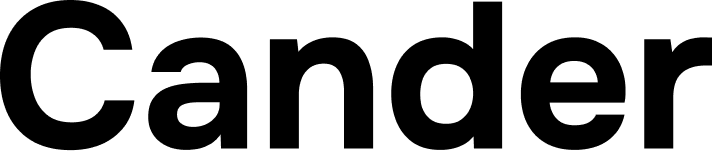
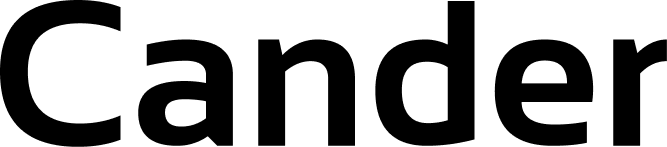
Update mobile wordmark and sticky menu header.
Replace the Cander wordmark with theme-aware ink, drop the orb beside it, and let the drawer scroll under a fixed brand header.

diff --git a/components/shell/MobileMenuPane.tsx b/components/shell/MobileMenuPane.tsx
@@ -10,7 +10,6 @@ import {
   SquarePen,
 } from "lucide-react";
 import { useApp } from "@/components/app/AppProvider";
-import { CanderMark } from "@/components/brand/CanderMark";
 import { CanderWordmark } from "@/components/brand/CanderWordmark";
 import {
   MobileSlideStack,
@@ -179,63 +178,67 @@ function MenuMain({
   };
 
   return (
-    <>
-      <div className="flex shrink-0 items-center justify-between gap-3 px-3 pl-7 pr-3 pt-[calc(env(safe-area-inset-top,0px)+22px)]">
-        <div className="flex min-w-0 items-center gap-2">
-          <CanderMark className="!h-6 !w-6" />
-          <CanderWordmark />
-        </div>
-      </div>
-
-      <div className="mt-[30px] flex min-h-0 flex-1 flex-col px-3 pb-[max(0.75rem,env(safe-area-inset-bottom))]">
-        <div className="flex flex-col gap-[0.1rem]">
-          <button
-            type="button"
-            onClick={onNewChat}
-            className={cn(
-              mobileMenuRowClass,
-              newActive && mobileMenuRowActiveClass,
-            )}
-            aria-label="New"
-          >
-            <SquarePen
-              className={cn(MOBILE_MENU_ICON_SIZE, "text-muted-foreground")}
-              strokeWidth={MOBILE_MENU_ICON_STROKE}
-            />
-            <span className="min-w-0 flex-1 truncate">New</span>
-          </button>
-          {spaceItems.map((item) => (
-            <MobileNavRow
-              key={item.id}
-              id={item.id}
-              label={item.label}
-              Icon={item.Icon}
-              active={navActive(item.id)}
-              comingSoon={item.comingSoon}
-              onOpen={onOpenNav}
-            />
-          ))}
-          <PinsSheet onSelect={onSelectPin} hideHeading />
+    <div className="flex h-full min-h-0 flex-col">
+      <div className="min-h-0 flex-1 overflow-y-auto overscroll-contain">
+        <div
+          className={cn(
+            "sticky top-0 z-20 flex items-center px-3 pl-7 pr-3 pt-[calc(env(safe-area-inset-top,0px)+22px)] pb-4",
+            MOBILE_MENU_BG,
+          )}
+        >
+          <CanderWordmark className="h-5" />
         </div>
 
-        <div className="mt-auto pt-3">
-          <button
-            type="button"
-            onClick={() => onOpenScreen("general")}
-            className={mobileMenuRowClass}
-          >
-            <PanelsTopLeft
+        <div className="flex min-h-[calc(100%-4.5rem)] flex-col px-3 pb-[max(0.75rem,env(safe-area-inset-bottom))] pt-2">
+          <div className="flex flex-col gap-[0.1rem]">
+            <button
+              type="button"
+              onClick={onNewChat}
               className={cn(
-                MOBILE_MENU_ICON_SIZE,
-                "shrink-0 text-muted-foreground",
+                mobileMenuRowClass,
+                newActive && mobileMenuRowActiveClass,
               )}
-              strokeWidth={MOBILE_MENU_ICON_STROKE}
-            />
-            General
-          </button>
+              aria-label="New"
+            >
+              <SquarePen
+                className={cn(MOBILE_MENU_ICON_SIZE, "text-muted-foreground")}
+                strokeWidth={MOBILE_MENU_ICON_STROKE}
+              />
+              <span className="min-w-0 flex-1 truncate">New</span>
+            </button>
+            {spaceItems.map((item) => (
+              <MobileNavRow
+                key={item.id}
+                id={item.id}
+                label={item.label}
+                Icon={item.Icon}
+                active={navActive(item.id)}
+                comingSoon={item.comingSoon}
+                onOpen={onOpenNav}
+              />
+            ))}
+            <PinsSheet onSelect={onSelectPin} hideHeading />
+          </div>
+
+          <div className="mt-auto pt-3">
+            <button
+              type="button"
+              onClick={() => onOpenScreen("general")}
+              className={mobileMenuRowClass}
+            >
+              <PanelsTopLeft
+                className={cn(
+                  MOBILE_MENU_ICON_SIZE,
+                  "shrink-0 text-muted-foreground",
+                )}
+                strokeWidth={MOBILE_MENU_ICON_STROKE}
+              />
+              General
+            </button>
+          </div>
         </div>
       </div>
-    </>
+    </div>
   );
 }
 

diff --git a/components/brand/CanderWordmark.tsx b/components/brand/CanderWordmark.tsx
@@ -1,32 +1,61 @@
 "use client";
 
+import { useSyncExternalStore } from "react";
 import { useTheme } from "@/components/theme/ThemeProvider";
 import { cn } from "@/lib/utils";
 
-/** Black wordmark for light surfaces; white wordmark for dark surfaces. */
+const WORDMARK_VERSION = "4";
+
+function subscribeHtmlDark(onStoreChange: () => void) {
+  if (typeof document === "undefined") return () => {};
+  const root = document.documentElement;
+  const observer = new MutationObserver(onStoreChange);
+  observer.observe(root, { attributes: true, attributeFilter: ["class"] });
+  return () => observer.disconnect();
+}
+
+function getHtmlDark(): boolean {
+  if (typeof document === "undefined") return false;
+  return document.documentElement.classList.contains("dark");
+}
+
+/**
+ * Wordmark that inverts with the surface:
+ * black ink on light backgrounds, white ink on dark backgrounds.
+ */
 export function CanderWordmark({
   className,
   tone = "auto",
 }: {
   className?: string;
-  /** Force white or black; default follows theme. */
+  /** Force white or black; default follows `html.dark` / theme. */
   tone?: "auto" | "white" | "black";
 }) {
   const { theme } = useTheme();
+  const htmlDark = useSyncExternalStore(
+    subscribeHtmlDark,
+    getHtmlDark,
+    () => false,
+  );
   const useWhite =
-    tone === "white" || (tone === "auto" && theme !== "light");
+    tone === "white" ||
+    (tone === "auto" && (htmlDark || theme === "dark"));
+  // *-dark = white glyphs for dark UI; *-light = black glyphs for light UI
   const src = useWhite
-    ? "/cander-wordmark-dark.png?v=2"
-    : "/cander-wordmark-light.png?v=2";
+    ? `/cander-wordmark-dark.png?v=${WORDMARK_VERSION}`
+    : `/cander-wordmark-light.png?v=${WORDMARK_VERSION}`;
 
   return (
     <img
       src={src}
       alt="Cander"
-      width={713}
-      height={151}
+      width={667}
+      height={147}
       suppressHydrationWarning
-      className={cn("h-[17px] w-auto object-contain object-left", className)}
+      className={cn(
+        "block h-[18px] w-auto max-w-[7.5rem] object-contain object-left",
+        className,
+      )}
     />
   );
 }
